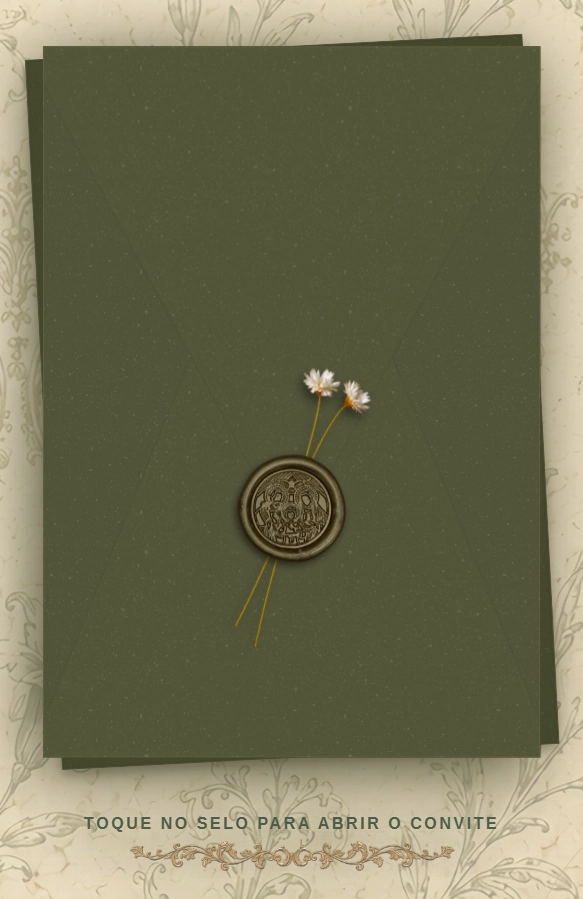
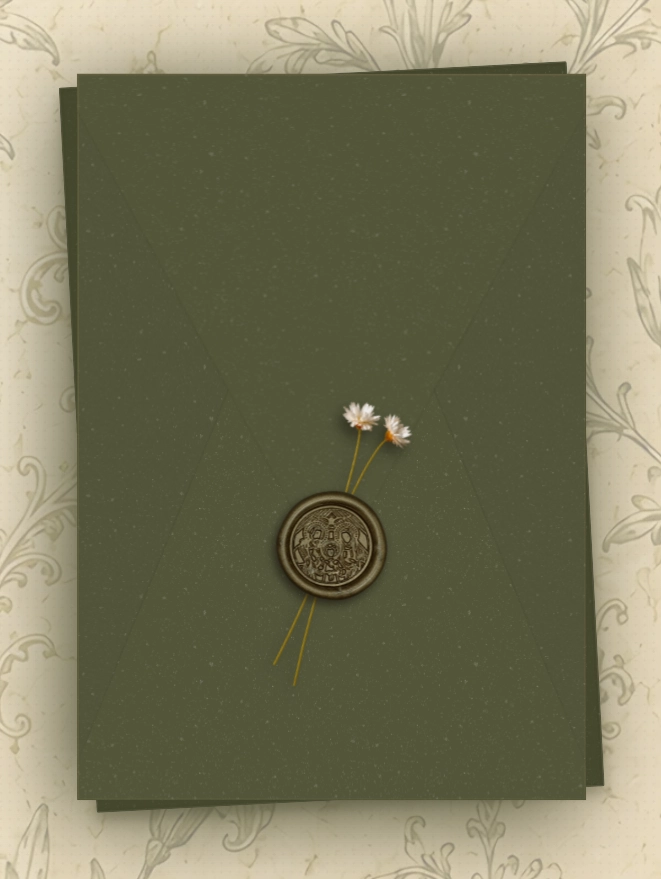
fix(metadata): update preview dimensions
Keep social image metadata aligned with the wider preview asset.

diff --git a/invite-app/index.html b/invite-app/index.html
@@ -33,8 +33,8 @@
     />
     <meta property="og:image:alt" content="Envelope do convite" />
     <meta property="og:image:type" content="image/webp" />
-    <meta property="og:image:width" content="583" />
-    <meta property="og:image:height" content="899" />
+    <meta property="og:image:width" content="661" />
+    <meta property="og:image:height" content="879" />
 
     <!-- Metadados complementares para X/Twitter. -->
     <meta name="twitter:card" content="summary_large_image" />

diff --git a/docs/event-config.md b/docs/event-config.md
@@ -204,7 +204,7 @@ dados dispara
 
 O HTML-fonte mantém metadata estática e fallback genéricos. PUBLIC_SITE_URL e seus
 markers continuam resolvidos no artefato; a imagem social usa o asset genérico
-`invite-app/images/preview-link.webp`, com MIME image/webp e dimensões 583 × 899.
+`invite-app/images/preview-link.webp`, com MIME image/webp e dimensões 661 × 879.
 O monograma estático BD foi restaurado
 nos dois slots originais; o antigo screenshot personalizado permanece removido.
 Durante a preparação, `prepare-static-site.mjs` faz um GET público de
